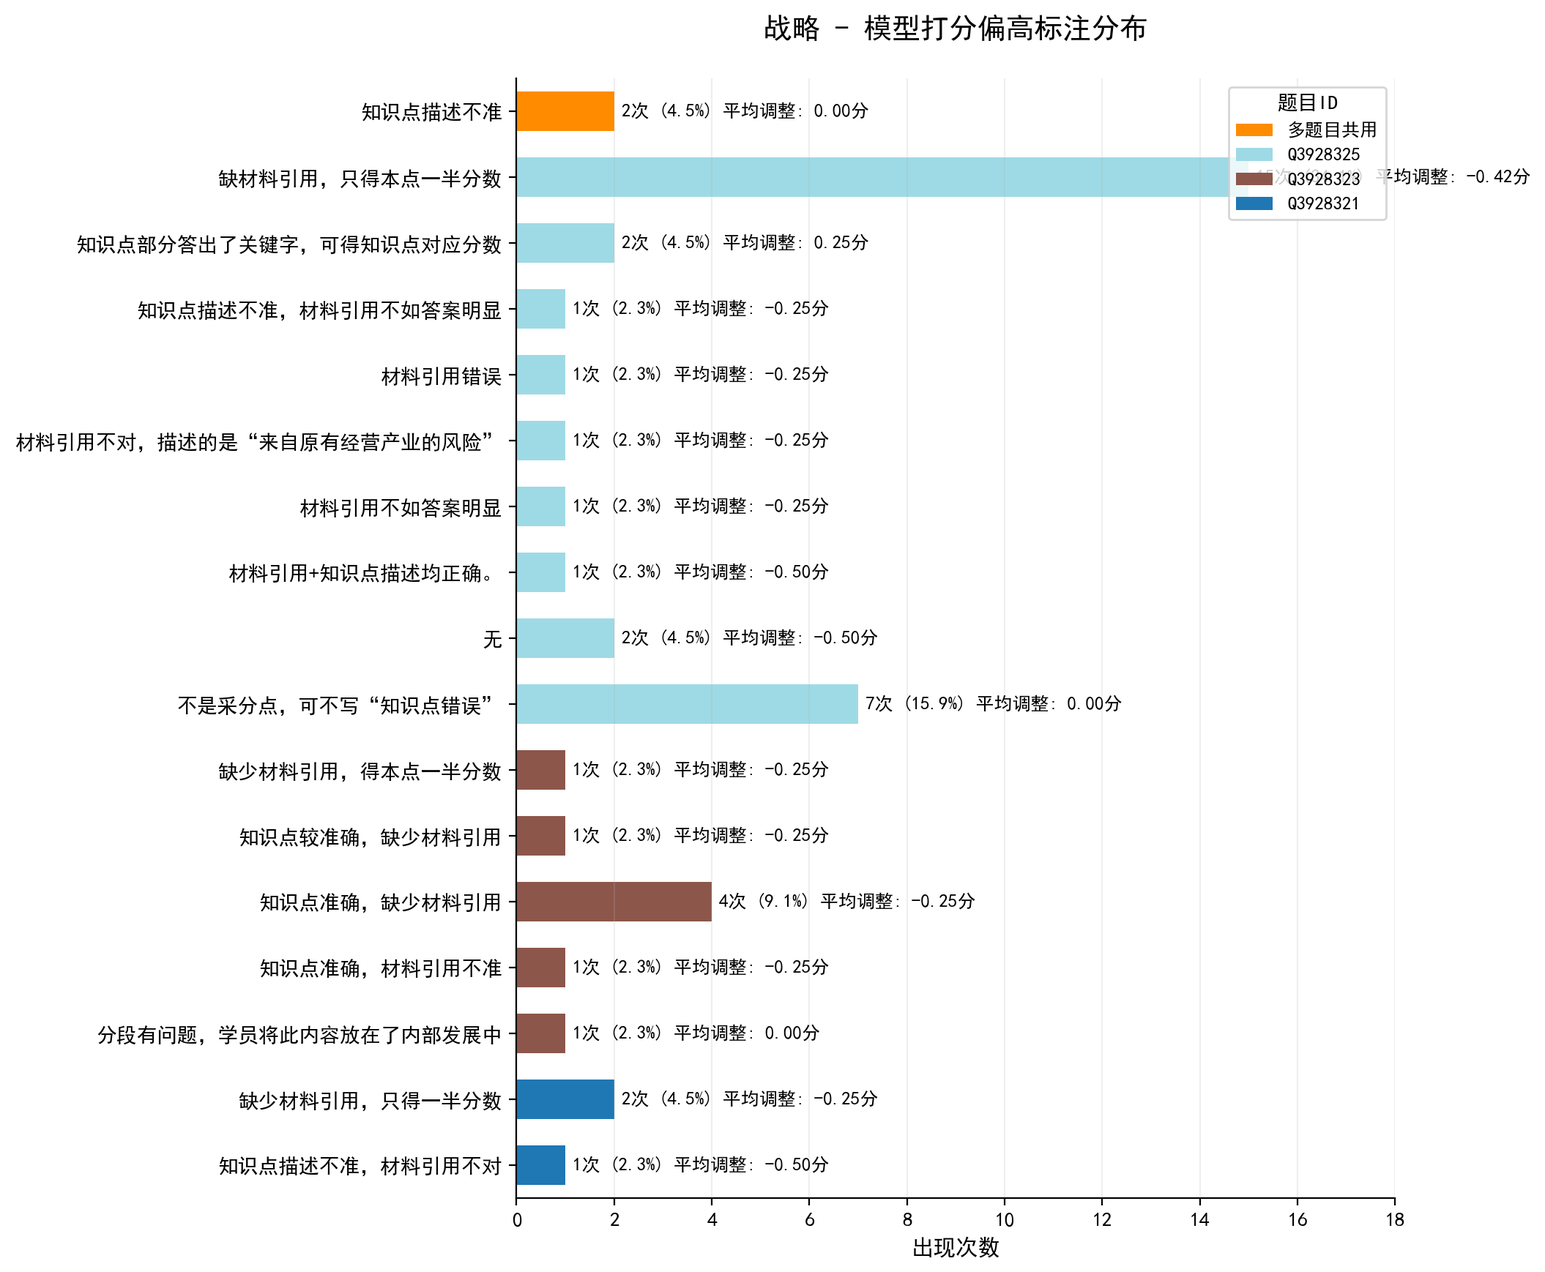
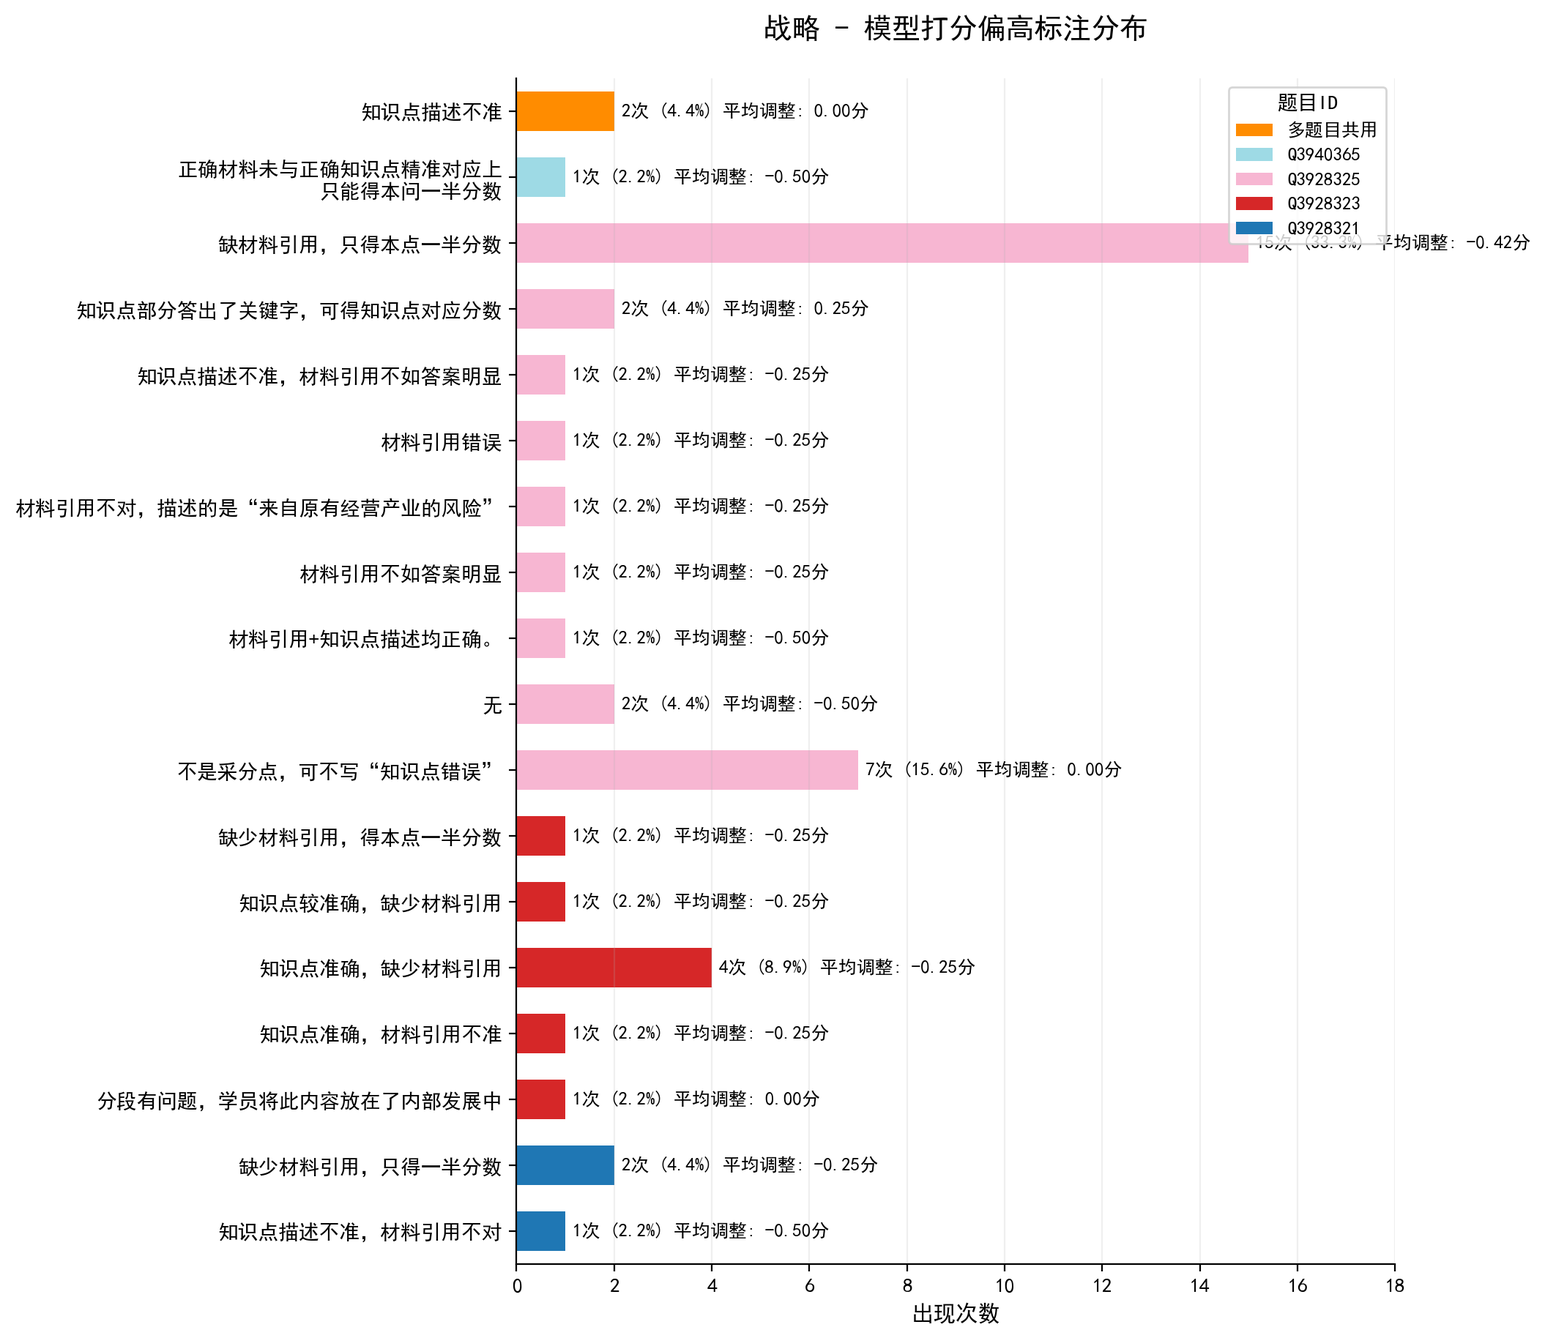
new data

Changed region(s): [[0.0, 0.0621, 0.9858, 0.9942], [0.5545, 0.0, 0.7393, 0.0311], [0.4929, 0.0, 0.5237, 0.0311]]

diff --git a/report_output/report.html b/report_output/report.html
@@ -1556,36 +1556,36 @@
     </style>
     <table id="overall-table">
         <thead>
-            <tr><th>科目名称</th><th>样本量</th><th>精准一致率</th><th>相邻一致率[±0.25]</th><th>相邻一致率[±0.5]</th><th>模型偏高比例</th><th>模型偏低比例</th><th>皮尔逊相关系数</th><th>95%置信区间</th><th>平均绝对误差</th></tr>
+            <tr><th>科目名称</th><th>样本量</th><th>精准一致率</th><th>精准一致率[+策略]</th><th>相邻一致率[±0.25]</th><th>相邻一致率[±0.5]</th><th>模型偏高比例</th><th>模型偏低比例</th><th>皮尔逊相关系数</th><th>95%置信区间</th><th>平均绝对误差</th></tr>
         </thead>
         <tbody>
     
             <tr class="subject-end" data-subject="审计">
-                <td>审计</td><td>60</td><td>51.67%</td><td>58.33%</td><td>86.67%</td><td>41.67%</td><td>6.67%</td><td>0.978</td><td>[0.964, 0.987]</td><td>0.287</td>
+                <td>审计</td><td>60</td><td>43.33%</td><td>51.67%</td><td>58.33%</td><td>86.67%</td><td>41.67%</td><td>6.67%</td><td>0.978</td><td>[0.964, 0.987]</td><td>0.287</td>
             </tr>
         
             <tr class="subject-end" data-subject="税法">
-                <td>税法</td><td>120</td><td>87.50%</td><td>88.33%</td><td>96.67%</td><td>4.17%</td><td>8.33%</td><td>0.888</td><td>[0.843, 0.921]</td><td>0.092</td>
+                <td>税法</td><td>120</td><td>83.33%</td><td>87.50%</td><td>88.33%</td><td>96.67%</td><td>4.17%</td><td>8.33%</td><td>0.888</td><td>[0.843, 0.921]</td><td>0.092</td>
             </tr>
         
             <tr class="subject-end" data-subject="经济法">
-                <td>经济法</td><td>120</td><td>81.67%</td><td>81.67%</td><td>91.67%</td><td>16.67%</td><td>1.67%</td><td>0.800</td><td>[0.725, 0.857]</td><td>0.267</td>
+                <td>经济法</td><td>120</td><td>80.00%</td><td>81.67%</td><td>81.67%</td><td>91.67%</td><td>16.67%</td><td>1.67%</td><td>0.800</td><td>[0.725, 0.857]</td><td>0.267</td>
             </tr>
         
             <tr class="subject-end" data-subject="财管">
-                <td>财管</td><td>180</td><td>78.89%</td><td>83.33%</td><td>96.67%</td><td>10.56%</td><td>10.56%</td><td>0.957</td><td>[0.943, 0.968]</td><td>0.130</td>
+                <td>财管</td><td>180</td><td>52.22%</td><td>78.89%</td><td>83.33%</td><td>96.67%</td><td>10.56%</td><td>10.56%</td><td>0.957</td><td>[0.943, 0.968]</td><td>0.130</td>
             </tr>
         
             <tr class="subject-end" data-subject="会计">
-                <td>会计</td><td>182</td><td>75.27%</td><td>83.52%</td><td>92.31%</td><td>4.40%</td><td>20.33%</td><td>0.931</td><td>[0.908, 0.948]</td><td>0.161</td>
+                <td>会计</td><td>182</td><td>71.43%</td><td>75.27%</td><td>83.52%</td><td>92.31%</td><td>4.40%</td><td>20.33%</td><td>0.931</td><td>[0.908, 0.948]</td><td>0.161</td>
             </tr>
         
             <tr class="subject-end" data-subject="战略">
-                <td>战略</td><td>30</td><td>30.00%</td><td>50.00%</td><td>66.67%</td><td>40.00%</td><td>30.00%</td><td>0.622</td><td>[0.337, 0.802]</td><td>0.600</td>
+                <td>战略</td><td>42</td><td>30.95%</td><td>30.95%</td><td>50.00%</td><td>73.81%</td><td>30.95%</td><td>38.10%</td><td>0.719</td><td>[0.531, 0.840]</td><td>0.518</td>
             </tr>
         
             <tr class="subject-end" data-subject="总计">
-                <td>总计</td><td>692</td><td>75.43%</td><td>80.35%</td><td>92.49%</td><td>12.86%</td><td>11.71%</td><td>0.863</td><td>-</td><td>0.189</td>
+                <td>总计</td><td>704</td><td>65.20%</td><td>74.72%</td><td>79.83%</td><td>92.47%</td><td>12.78%</td><td>12.50%</td><td>0.879</td><td>-</td><td>0.191</td>
             </tr>
         
         </tbody>
@@ -1622,36 +1622,36 @@
     </style>
     <table id="point-overall-table">
         <thead>
-            <tr><th>科目名称</th><th>小题数量</th><th>得分点总数</th><th>得分点精准一致率raw</th><th>得分点精准一致率1</th><th>得分点精准一致率2</th><th>得分点命中率raw</th><th>得分点命中率1</th><th>得分点命中率2</th></tr>
+            <tr><th>科目名称</th><th>小题数量</th><th>得分点总数</th><th>平均每个题目的得分点</th><th>得分点精准一致率raw</th><th>得分点精准一致率1</th><th>得分点精准一致率2</th><th>得分点命中率raw</th><th>得分点命中率1</th><th>得分点命中率2</th></tr>
         </thead>
         <tbody>
     
             <tr class="subject-end" data-subject="审计">
-                <td>审计</td><td>4</td><td>632</td><td>91.93%</td><td>92.88%</td><td>94.15%</td><td>92.32%</td><td>93.45%</td><td>94.62%</td>
+                <td>审计</td><td>4</td><td>632</td><td>10.53</td><td>91.93%</td><td>92.88%</td><td>94.15%</td><td>92.32%</td><td>93.45%</td><td>94.62%</td>
             </tr>
         
             <tr class="subject-end" data-subject="税法">
-                <td>税法</td><td>6</td><td>208</td><td>82.69%</td><td>85.10%</td><td>85.10%</td><td>79.97%</td><td>83.61%</td><td>83.61%</td>
+                <td>税法</td><td>6</td><td>208</td><td>1.89</td><td>82.69%</td><td>85.10%</td><td>85.10%</td><td>79.97%</td><td>83.61%</td><td>83.61%</td>
             </tr>
         
             <tr class="subject-end" data-subject="经济法">
-                <td>经济法</td><td>10</td><td>210</td><td>88.57%</td><td>88.57%</td><td>88.57%</td><td>83.75%</td><td>83.75%</td><td>83.75%</td>
+                <td>经济法</td><td>10</td><td>210</td><td>1.75</td><td>88.57%</td><td>88.57%</td><td>88.57%</td><td>83.75%</td><td>83.75%</td><td>83.75%</td>
             </tr>
         
             <tr class="subject-end" data-subject="财管">
-                <td>财管</td><td>9</td><td>828</td><td>88.65%</td><td>93.48%</td><td>94.08%</td><td>84.90%</td><td>88.10%</td><td>88.94%</td>
+                <td>财管</td><td>9</td><td>828</td><td>4.73</td><td>88.65%</td><td>93.48%</td><td>94.08%</td><td>84.90%</td><td>88.10%</td><td>88.94%</td>
             </tr>
         
             <tr class="subject-end" data-subject="会计">
-                <td>会计</td><td>14</td><td>433</td><td>90.07%</td><td>90.07%</td><td>91.92%</td><td>89.94%</td><td>89.94%</td><td>92.22%</td>
+                <td>会计</td><td>14</td><td>433</td><td>2.47</td><td>90.07%</td><td>90.07%</td><td>91.92%</td><td>89.94%</td><td>89.94%</td><td>92.22%</td>
             </tr>
         
             <tr class="subject-end" data-subject="战略">
-                <td>战略</td><td>3</td><td>189</td><td>60.32%</td><td>60.32%</td><td>79.37%</td><td>60.01%</td><td>60.01%</td><td>79.66%</td>
+                <td>战略</td><td>5</td><td>224</td><td>5.33</td><td>61.16%</td><td>61.16%</td><td>78.12%</td><td>61.60%</td><td>61.60%</td><td>77.22%</td>
             </tr>
         
             <tr class="subject-end" data-subject="总计">
-                <td>总计</td><td>46</td><td>2500</td><td>87.08%</td><td>89.12%</td><td>91.40%</td><td>84.56%</td><td>85.76%</td><td>88.00%</td>
+                <td>总计</td><td>48</td><td>2535</td><td>3.72%</td><td>86.79%</td><td>88.80%</td><td>91.12%</td><td>83.71%</td><td>84.86%</td><td>87.40%</td>
             </tr>
         
         </tbody>
@@ -1670,124 +1670,124 @@
     </style>
     <table id="question-type-table">
         <thead>
-            <tr><th>科目名称</th><th>题型</th><th>样本量</th><th>精确一致率</th><th>相邻一致率[±0.25]</th><th>相邻一致率[±0.5]</th><th>模型偏高比例</th><th>模型偏低比例</th><th>平均绝对误差</th></tr>
+            <tr><th>科目名称</th><th>题型</th><th>样本量</th><th>精确一致率</th><th>相邻一致率[±0.25]</th><th>相邻一致率[±0.5]</th><th>模型偏高比例</th><th>模型偏低比例</th><th>平均绝对误差</th><th>得分点命中率raw</th></tr>
         </thead>
         <tbody>
     
             <tr class="" data-subject="审计">
-                <td>审计</td><td>观点+理由+认定</td><td>30</td><td>33.33%</td><td>40.00%</td><td>76.67%</td><td>56.67%</td><td>10.00%</td><td>0.425</td>
+                <td>审计</td><td>观点+理由+认定</td><td>30</td><td>33.33%</td><td>40.00%</td><td>76.67%</td><td>56.67%</td><td>10.00%</td><td>0.42</td><td>91.40%</td>
             </tr>
         
             <tr class="subject-end" data-subject="审计">
-                <td></td><td>观点+理由</td><td>30</td><td>70.00%</td><td>76.67%</td><td>96.67%</td><td>26.67%</td><td>3.33%</td><td>0.150</td>
+                <td></td><td>观点+理由</td><td>30</td><td>70.00%</td><td>76.67%</td><td>96.67%</td><td>26.67%</td><td>3.33%</td><td>0.15</td><td>93.16%</td>
             </tr>
         
             <tr class="" data-subject="税法">
-                <td>税法</td><td>计算+文本</td><td>17</td><td>100.00%</td><td>100.00%</td><td>100.00%</td><td>0.00%</td><td>0.00%</td><td>0.000</td>
+                <td>税法</td><td>计算+文本</td><td>17</td><td>100.00%</td><td>100.00%</td><td>100.00%</td><td>0.00%</td><td>0.00%</td><td>0.00</td><td>90.32%</td>
             </tr>
         
             <tr class="" data-subject="税法">
-                <td></td><td>观点+计算</td><td>17</td><td>64.71%</td><td>64.71%</td><td>100.00%</td><td>0.00%</td><td>35.29%</td><td>0.176</td>
+                <td></td><td>文本</td><td>17</td><td>64.71%</td><td>70.59%</td><td>94.12%</td><td>23.53%</td><td>11.76%</td><td>0.18</td><td>35.29%</td>
             </tr>
         
             <tr class="" data-subject="税法">
-                <td></td><td>文本</td><td>17</td><td>64.71%</td><td>70.59%</td><td>94.12%</td><td>23.53%</td><td>11.76%</td><td>0.176</td>
+                <td></td><td>观点+计算</td><td>17</td><td>64.71%</td><td>64.71%</td><td>100.00%</td><td>0.00%</td><td>35.29%</td><td>0.18</td><td>100.00%</td>
             </tr>
         
             <tr class="" data-subject="税法">
-                <td></td><td>理由+计算</td><td>16</td><td>100.00%</td><td>100.00%</td><td>100.00%</td><td>0.00%</td><td>0.00%</td><td>0.000</td>
+                <td></td><td>理由+计算</td><td>16</td><td>100.00%</td><td>100.00%</td><td>100.00%</td><td>0.00%</td><td>0.00%</td><td>0.00</td><td>90.62%</td>
             </tr>
         
             <tr class="" data-subject="税法">
-                <td></td><td>计算</td><td>30</td><td>100.00%</td><td>100.00%</td><td>100.00%</td><td>0.00%</td><td>0.00%</td><td>0.000</td>
+                <td></td><td>观点+理由</td><td>23</td><td>86.96%</td><td>86.96%</td><td>86.96%</td><td>4.35%</td><td>8.70%</td><td>0.22</td><td>65.22%</td>
             </tr>
         
             <tr class="subject-end" data-subject="税法">
-                <td></td><td>观点+理由</td><td>23</td><td>86.96%</td><td>86.96%</td><td>86.96%</td><td>4.35%</td><td>8.70%</td><td>0.217</td>
+                <td></td><td>计算</td><td>30</td><td>100.00%</td><td>100.00%</td><td>100.00%</td><td>0.00%</td><td>0.00%</td><td>0.00</td><td>100.00%</td>
             </tr>
         
             <tr class="" data-subject="经济法">
-                <td>经济法</td><td>观点+理由</td><td>90</td><td>90.00%</td><td>90.00%</td><td>90.00%</td><td>7.78%</td><td>2.22%</td><td>0.133</td>
+                <td>经济法</td><td>文本</td><td>30</td><td>56.67%</td><td>56.67%</td><td>56.67%</td><td>43.33%</td><td>0.00%</td><td>0.67</td><td>50.00%</td>
             </tr>
         
             <tr class="subject-end" data-subject="经济法">
-                <td></td><td>文本</td><td>30</td><td>56.67%</td><td>56.67%</td><td>56.67%</td><td>43.33%</td><td>0.00%</td><td>0.667</td>
+                <td></td><td>观点+理由</td><td>90</td><td>90.00%</td><td>90.00%</td><td>90.00%</td><td>7.78%</td><td>2.22%</td><td>0.13</td><td>95.00%</td>
             </tr>
         
             <tr class="" data-subject="财管">
-                <td>财管</td><td>观点+计算</td><td>18</td><td>38.89%</td><td>44.44%</td><td>77.78%</td><td>0.00%</td><td>61.11%</td><td>0.569</td>
+                <td>财管</td><td>观点+计算</td><td>18</td><td>38.89%</td><td>44.44%</td><td>77.78%</td><td>0.00%</td><td>61.11%</td><td>0.57</td><td>84.00%</td>
             </tr>
         
             <tr class="" data-subject="财管">
-                <td></td><td>观点+表格</td><td>17</td><td>100.00%</td><td>100.00%</td><td>100.00%</td><td>0.00%</td><td>0.00%</td><td>0.000</td>
+                <td></td><td>观点</td><td>17</td><td>94.12%</td><td>94.12%</td><td>100.00%</td><td>5.88%</td><td>0.00%</td><td>0.03</td><td>94.12%</td>
             </tr>
         
             <tr class="" data-subject="财管">
-                <td></td><td>观点+理由</td><td>17</td><td>70.59%</td><td>70.59%</td><td>94.12%</td><td>0.00%</td><td>29.41%</td><td>0.176</td>
+                <td></td><td>计算+文本</td><td>17</td><td>94.12%</td><td>94.12%</td><td>94.12%</td><td>5.88%</td><td>0.00%</td><td>0.09</td><td>91.30%</td>
             </tr>
         
             <tr class="" data-subject="财管">
-                <td></td><td>计算+文本</td><td>17</td><td>94.12%</td><td>94.12%</td><td>94.12%</td><td>5.88%</td><td>0.00%</td><td>0.088</td>
+                <td></td><td>观点+理由</td><td>17</td><td>70.59%</td><td>70.59%</td><td>94.12%</td><td>0.00%</td><td>29.41%</td><td>0.18</td><td>82.76%</td>
             </tr>
         
             <tr class="" data-subject="财管">
-                <td></td><td>观点</td><td>17</td><td>94.12%</td><td>94.12%</td><td>100.00%</td><td>5.88%</td><td>0.00%</td><td>0.029</td>
+                <td></td><td>观点+表格</td><td>17</td><td>100.00%</td><td>100.00%</td><td>100.00%</td><td>0.00%</td><td>0.00%</td><td>0.00</td><td>93.90%</td>
             </tr>
         
             <tr class="" data-subject="财管">
-                <td></td><td>表格</td><td>30</td><td>100.00%</td><td>100.00%</td><td>100.00%</td><td>0.00%</td><td>0.00%</td><td>0.000</td>
+                <td></td><td>表格</td><td>30</td><td>100.00%</td><td>100.00%</td><td>100.00%</td><td>0.00%</td><td>0.00%</td><td>0.00</td><td>88.33%</td>
             </tr>
         
             <tr class="" data-subject="财管">
-                <td></td><td>文本</td><td>17</td><td>41.18%</td><td>47.06%</td><td>100.00%</td><td>52.94%</td><td>5.88%</td><td>0.271</td>
+                <td></td><td>计算</td><td>30</td><td>70.00%</td><td>90.00%</td><td>100.00%</td><td>26.67%</td><td>3.33%</td><td>0.10</td><td>86.79%</td>
             </tr>
         
             <tr class="" data-subject="财管">
-                <td></td><td>观点+理由+计算</td><td>17</td><td>94.12%</td><td>94.12%</td><td>100.00%</td><td>0.00%</td><td>5.88%</td><td>0.029</td>
+                <td></td><td>文本</td><td>17</td><td>41.18%</td><td>47.06%</td><td>100.00%</td><td>52.94%</td><td>5.88%</td><td>0.27</td><td>35.71%</td>
             </tr>
         
             <tr class="subject-end" data-subject="财管">
-                <td></td><td>计算</td><td>30</td><td>70.00%</td><td>90.00%</td><td>100.00%</td><td>26.67%</td><td>3.33%</td><td>0.100</td>
+                <td></td><td>观点+理由+计算</td><td>17</td><td>94.12%</td><td>94.12%</td><td>100.00%</td><td>0.00%</td><td>5.88%</td><td>0.03</td><td>100.00%</td>
             </tr>
         
             <tr class="" data-subject="会计">
-                <td>会计</td><td>观点+理由+分录</td><td>18</td><td>22.22%</td><td>66.67%</td><td>100.00%</td><td>5.56%</td><td>72.22%</td><td>0.278</td>
+                <td>会计</td><td>计算+文本+分录</td><td>21</td><td>71.43%</td><td>80.95%</td><td>85.71%</td><td>4.76%</td><td>23.81%</td><td>0.19</td><td>95.45%</td>
             </tr>
         
             <tr class="" data-subject="会计">
-                <td></td><td>计算+文本</td><td>18</td><td>77.78%</td><td>77.78%</td><td>77.78%</td><td>22.22%</td><td>0.00%</td><td>0.222</td>
+                <td></td><td>分录</td><td>19</td><td>84.21%</td><td>84.21%</td><td>94.74%</td><td>0.00%</td><td>15.79%</td><td>0.24</td><td>98.18%</td>
             </tr>
         
             <tr class="" data-subject="会计">
-                <td></td><td>分录</td><td>19</td><td>84.21%</td><td>84.21%</td><td>94.74%</td><td>0.00%</td><td>15.79%</td><td>0.237</td>
+                <td></td><td>观点+理由</td><td>18</td><td>83.33%</td><td>83.33%</td><td>94.44%</td><td>0.00%</td><td>16.67%</td><td>0.11</td><td>88.57%</td>
             </tr>
         
             <tr class="" data-subject="会计">
-                <td></td><td>计算+分录</td><td>30</td><td>90.00%</td><td>90.00%</td><td>90.00%</td><td>0.00%</td><td>10.00%</td><td>0.133</td>
+                <td></td><td>观点+理由+分录</td><td>18</td><td>22.22%</td><td>66.67%</td><td>100.00%</td><td>5.56%</td><td>72.22%</td><td>0.28</td><td>72.00%</td>
             </tr>
         
             <tr class="" data-subject="会计">
-                <td></td><td>观点+理由+计算+分录</td><td>19</td><td>68.42%</td><td>68.42%</td><td>89.47%</td><td>0.00%</td><td>31.58%</td><td>0.211</td>
+                <td></td><td>观点+理由+计算+分录</td><td>19</td><td>68.42%</td><td>68.42%</td><td>89.47%</td><td>0.00%</td><td>31.58%</td><td>0.21</td><td>88.00%</td>
             </tr>
         
             <tr class="" data-subject="会计">
-                <td></td><td>文本</td><td>18</td><td>66.67%</td><td>94.44%</td><td>100.00%</td><td>11.11%</td><td>22.22%</td><td>0.097</td>
+                <td></td><td>计算</td><td>21</td><td>100.00%</td><td>100.00%</td><td>100.00%</td><td>0.00%</td><td>0.00%</td><td>0.00</td><td>100.00%</td>
             </tr>
         
             <tr class="" data-subject="会计">
-                <td></td><td>计算+文本+分录</td><td>21</td><td>71.43%</td><td>80.95%</td><td>85.71%</td><td>4.76%</td><td>23.81%</td><td>0.190</td>
+                <td></td><td>计算+文本</td><td>18</td><td>77.78%</td><td>77.78%</td><td>77.78%</td><td>22.22%</td><td>0.00%</td><td>0.22</td><td>85.71%</td>
             </tr>
         
             <tr class="" data-subject="会计">
-                <td></td><td>观点+理由</td><td>18</td><td>83.33%</td><td>83.33%</td><td>94.44%</td><td>0.00%</td><td>16.67%</td><td>0.111</td>
+                <td></td><td>文本</td><td>18</td><td>66.67%</td><td>94.44%</td><td>100.00%</td><td>11.11%</td><td>22.22%</td><td>0.10</td><td>69.23%</td>
             </tr>
         
             <tr class="subject-end" data-subject="会计">
-                <td></td><td>计算</td><td>21</td><td>100.00%</td><td>100.00%</td><td>100.00%</td><td>0.00%</td><td>0.00%</td><td>0.000</td>
+                <td></td><td>计算+分录</td><td>30</td><td>90.00%</td><td>90.00%</td><td>90.00%</td><td>0.00%</td><td>10.00%</td><td>0.13</td><td>96.59%</td>
             </tr>
         
             <tr class="subject-end" data-subject="战略">
-                <td>战略</td><td>知识点和材料</td><td>30</td><td>30.00%</td><td>50.00%</td><td>66.67%</td><td>40.00%</td><td>30.00%</td><td>0.600</td>
+                <td>战略</td><td>知识点和材料</td><td>42</td><td>30.95%</td><td>50.00%</td><td>73.81%</td><td>30.95%</td><td>38.10%</td><td>0.52</td><td>61.16%</td>
             </tr>
         
         </tbody>
@@ -1868,12 +1868,12 @@
     </tr>
     <tr>
       <td>战略</td>
-      <td>30</td>
-      <td>1 (3.3%)</td>
-      <td>29 (96.7%)</td>
-      <td>12 (41.4%)</td>
-      <td>9 (31.0%)</td>
-      <td>8 (27.6%)</td>
+      <td>42</td>
+      <td>4 (9.5%)</td>
+      <td>38 (90.5%)</td>
+      <td>13 (34.2%)</td>
+      <td>16 (42.1%)</td>
+      <td>9 (23.7%)</td>
     </tr>
   </tbody>
 </table>
@@ -2071,7 +2071,7 @@
                 <div class="barchart-item" data-subject="战略" data-category="模型打分偏高">
                     <div class="chart-section">
                         <h5>战略 - 模型打分偏高</h5>
-                        <p class="chart-stats">记录数: 12 | 标注数: 44</p>
+                        <p class="chart-stats">记录数: 13 | 标注数: 45</p>
                         <div class="chart-scroll-container">
                             <img src="战略_high_model_smart.png" alt="战略模型打分偏高标注分布" 
                                  class="scrollable-chart">
@@ -2082,7 +2082,7 @@
                 <div class="barchart-item" data-subject="战略" data-category="模型打分偏低">
                     <div class="chart-section">
                         <h5>战略 - 模型打分偏低</h5>
-                        <p class="chart-stats">记录数: 9 | 标注数: 27</p>
+                        <p class="chart-stats">记录数: 16 | 标注数: 47</p>
                         <div class="chart-scroll-container">
                             <img src="战略_low_model_smart.png" alt="战略模型打分偏低标注分布" 
                                  class="scrollable-chart">
@@ -2093,7 +2093,7 @@
                 <div class="barchart-item" data-subject="战略" data-category="打分一致">
                     <div class="chart-section">
                         <h5>战略 - 打分一致</h5>
-                        <p class="chart-stats">记录数: 8 | 标注数: 30</p>
+                        <p class="chart-stats">记录数: 9 | 标注数: 31</p>
                         <div class="chart-scroll-container">
                             <img src="战略_consistent_smart.png" alt="战略打分一致标注分布" 
                                  class="scrollable-chart">
